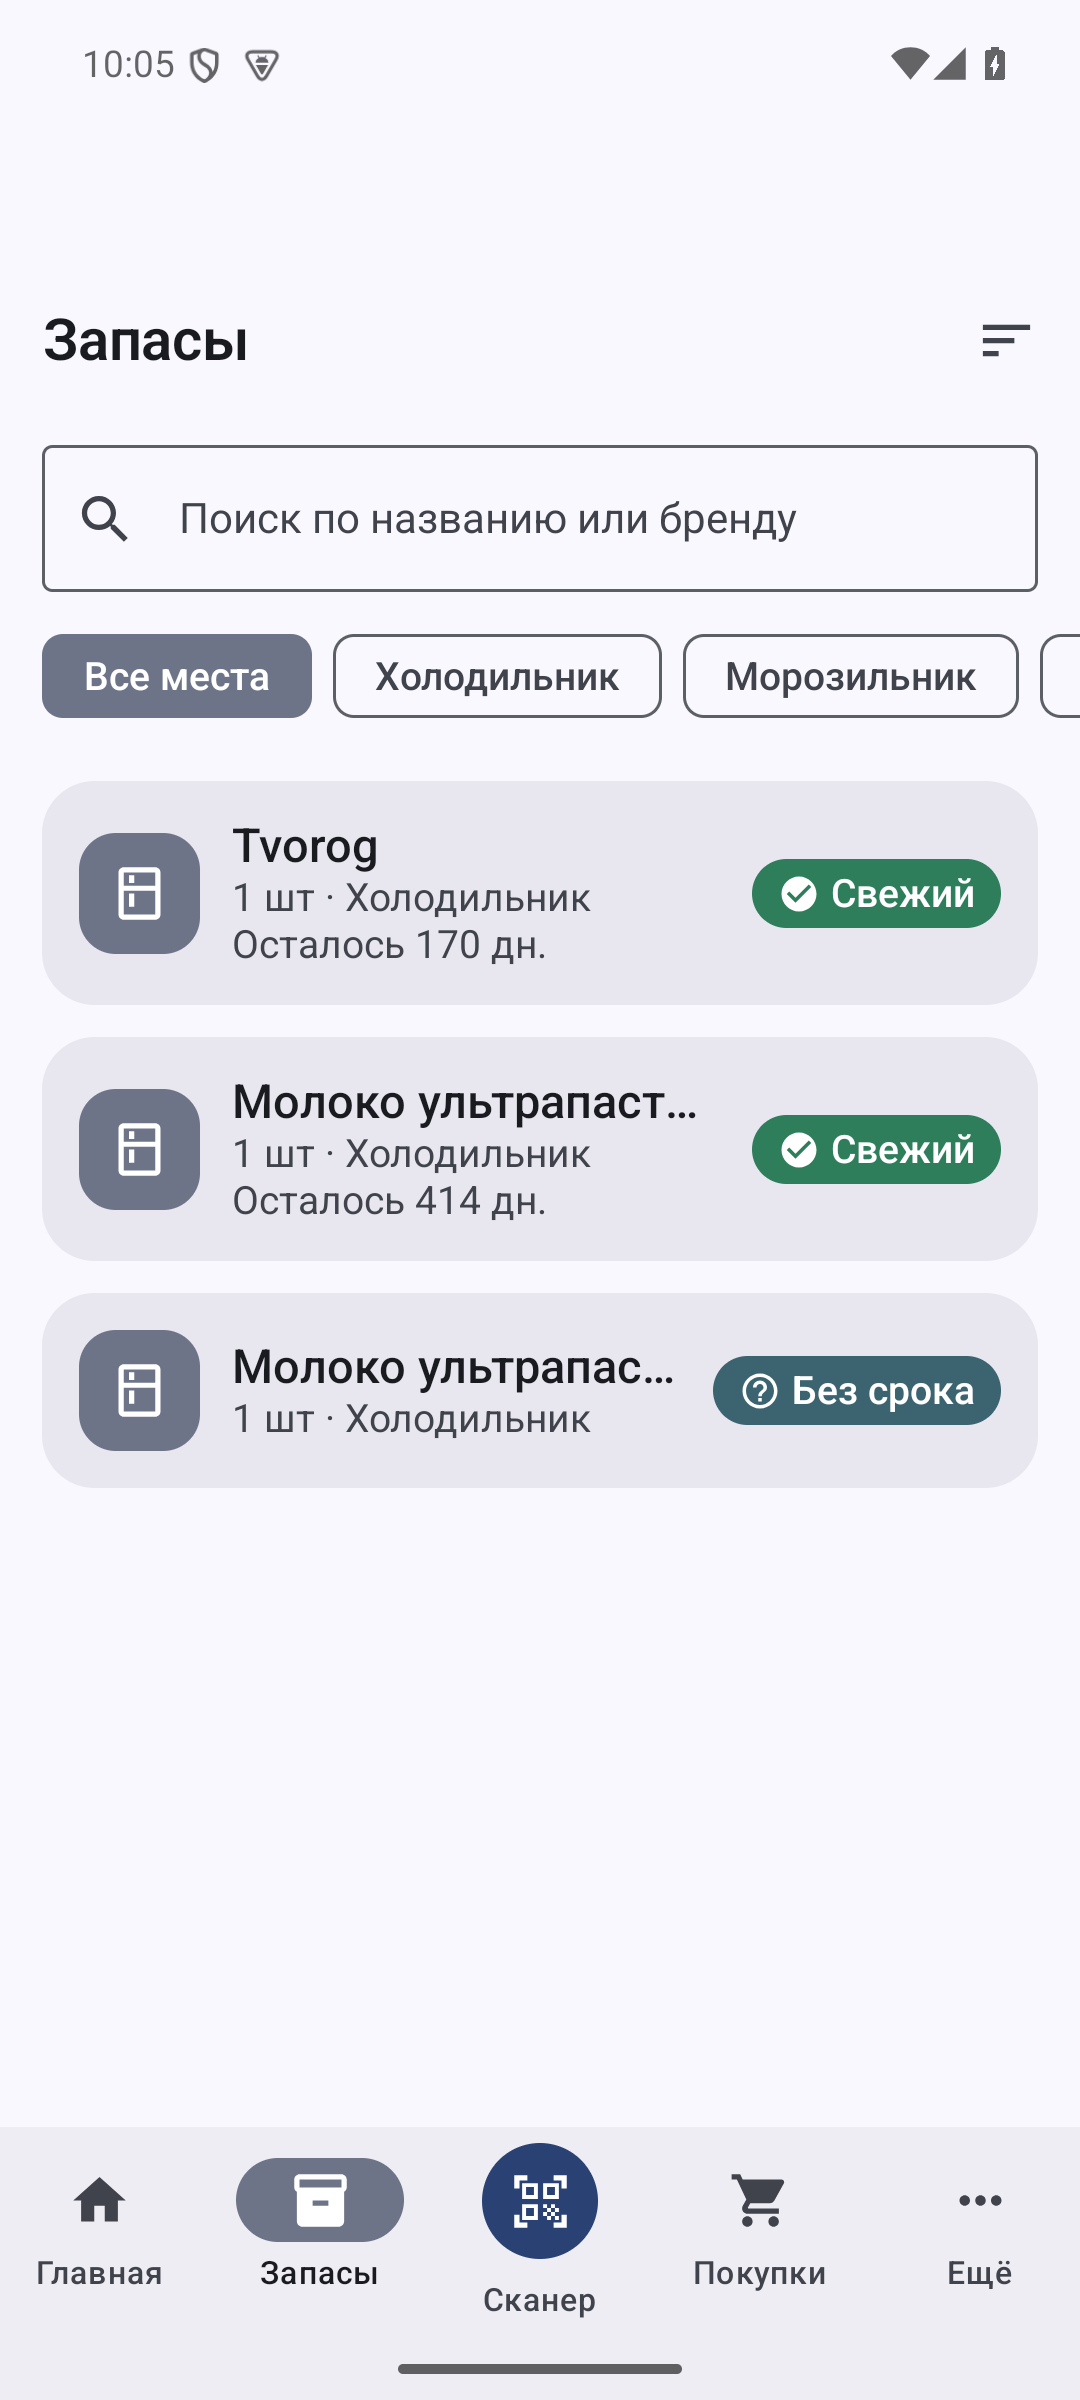
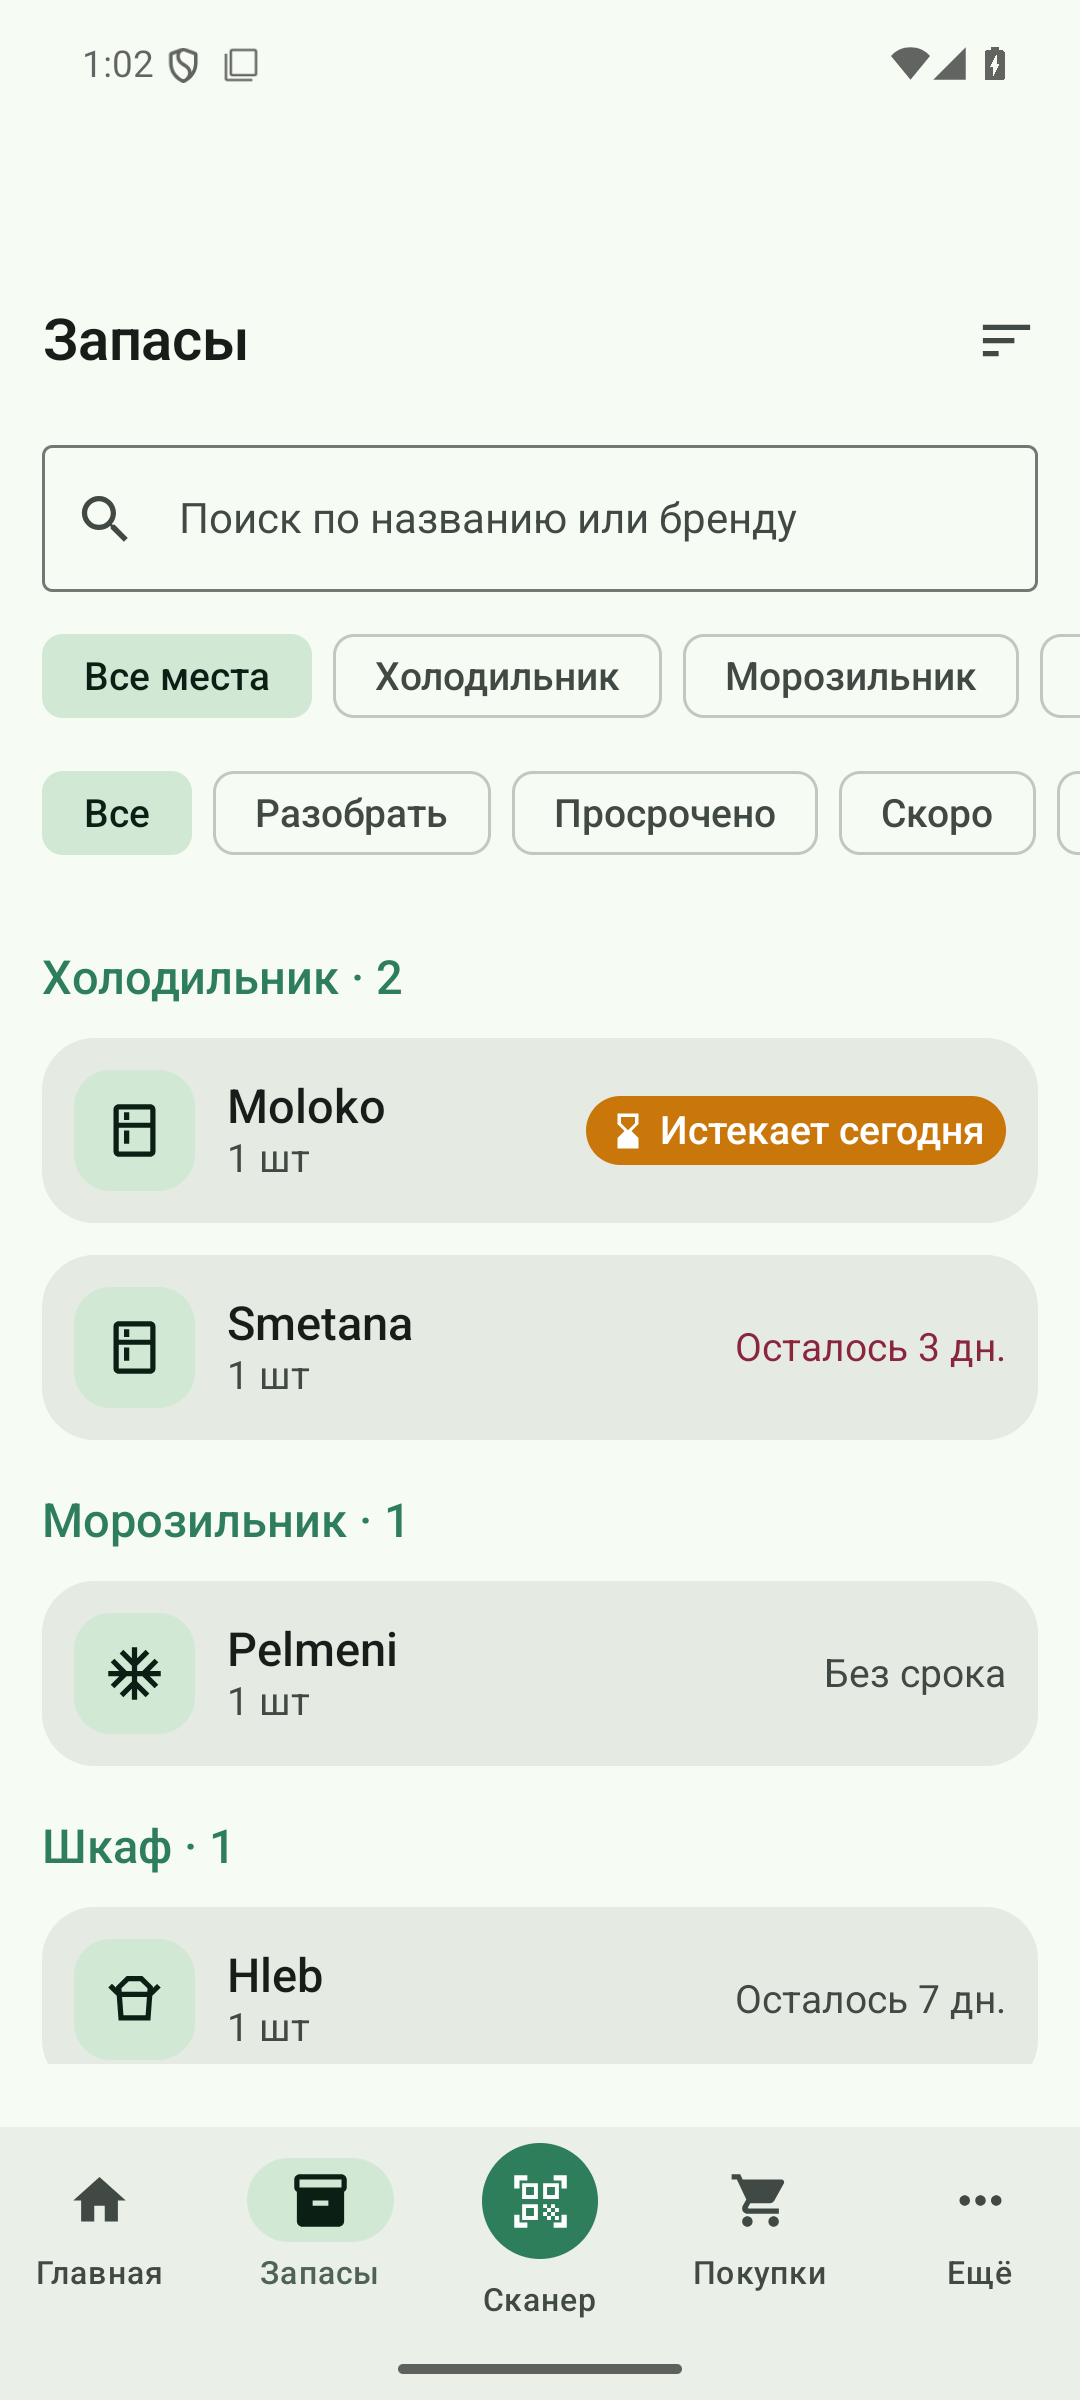
Release 1.7.0
Version 9. Same key as 1.5.0 onwards, so it installs over 1.6.0 directly.

Screenshots retaken: the old ones were from July, before the status filters and the
expired tile, and were captured with wallpaper colours on — the app looked like a
grey-blue Material sample rather than its own green.

Changed region(s): [[0.0306, 0.25, 0.9778, 0.9688], [0.0917, 0.0, 0.2444, 0.0312], [0.9778, 0.3125, 1.0, 0.3438]]

diff --git a/CHANGELOG.md b/CHANGELOG.md
@@ -5,6 +5,44 @@
 
 ## [Unreleased]
 
+## [1.7.0] — 2026-08-11
+
+Приложение перестало кричать о том, с чем всё в порядке.
+
+### Тише по умолчанию, громко — когда есть что делать
+- **Залитая плашка осталась только у срочного.** Раньше «Свежий» — самое частое и
+  самое безобидное состояние — получал на каждой строке ту же яркую пилюлю, что и
+  испорченное. Четыре нормальных продукта кричали, а один пропадающий ничем не
+  выделялся. Теперь три веса: заливка у «Истекает сегодня» и «Просрочен», цветная
+  подпись у «Скоро», обычный серый текст у остального.
+- **Строка больше не повторяется.** «Осталось 169 дн.» и бейдж «Свежий» говорили
+  одно и то же; осталась одна подпись — та, что несёт число.
+- **Главная начинается с дела.** Вместо полосы плиток — строка «Разобрать сегодня:
+  N» с переходом в отфильтрованный список. Когда разбирать нечего, строки нет
+  вовсе: раньше четверть экрана занимало сообщение «0 скоро истекут».
+  Счётчик продуктов переехал в подзаголовок к дате.
+- **Ноль выброшенного перестал быть красным.** В аналитике «Выброшено» и «Просрочено»
+  окрашиваются, только когда они не нули; остальные счётчики нейтральны. Раньше
+  цвет брался из свободной роли Material, а не из смысла числа.
+
+### Новое
+- **Разбор пачками.** Долгое нажатие → «Выбрать несколько», отметить строки,
+  «Закончилось» или «Выбросить» разом. Отмена возвращает **все** записанные партии,
+  а не последнюю.
+- **Запасы сгруппированы по местам**: «Холодильник · 6», «Морозильник · 3» —
+  в том порядке, в каком места расставлены в настройках. При выборе одного места
+  заголовки убираются.
+- **Фильтр «Разобрать»** — просроченное вместе с истекающим сегодня, ровно то, что
+  считает строка на главной.
+- **Список покупок можно отправить** обычным текстом: купленное в него не попадает.
+
+### Под капотом
+- Одна плитка-счётчик вместо трёх реализаций, около сорока «сырых» размеров
+  заменены токенами `Dimens`, подписи быстрых действий больше не переносятся.
+- Скриншоты в README пересняты: прежние были сняты в июле, до фильтров и плитки
+  «Просрочено», да ещё и с включёнными цветами обоев — приложение на них выглядело
+  чужим серо-синим вместо собственного зелёного.
+
 ## [1.6.0] — 2026-08-09
 
 Удобство ежедневного пользования — и одна ошибка, из-за которой приложение

diff --git a/TODO.md b/TODO.md
@@ -52,6 +52,17 @@
 - [x] Кнопки −/+ у количества; единицы измерения и правка позиций в списке покупок.
 - [x] Вибрация при удачном скане, снекбары озвучиваются TalkBack.
 
+## Сделано после v1.6.0
+
+- [x] Редизайн внимания: заливка статуса только у срочного, три веса вместо одного,
+      строка списка без дублирования, главная вокруг «разобрать сегодня».
+- [x] Один `StatTile` вместо трёх реализаций; цвет плитки — по смыслу, а не по
+      свободной роли Material («0 выброшено» больше не красный).
+- [x] ~40 сырых `dp` заменены токенами `Dimens`.
+- [x] Разбор пачками с возвратом всех партий, группировка запасов по местам,
+      отправка списка покупок текстом, фильтр «Разобрать».
+- [x] Скриншоты в README пересняты на собственной палитре.
+
 ## Технический долг
 
 - [x] `SyncManager` покрыт `SyncManagerTest` (Robolectric, обычный каталог вместо SAF

diff --git a/README.md b/README.md
@@ -11,9 +11,13 @@
 
 **[⬇ Скачать APK (последний релиз)](https://github.com/Lucky2356/EatBefore/releases/latest)**
 
-| Главная | Запасы | Сканер | Аналитика | Тёмная тема |
-|---|---|---|---|---|
-| ![Главная](docs/screenshots/home.png) | ![Запасы](docs/screenshots/inventory.png) | ![Сканер](docs/screenshots/scanner-found.png) | ![Аналитика](docs/screenshots/analytics.png) | ![Тёмная тема](docs/screenshots/home-dark.png) |
+| Главная | Запасы | Карточка продукта |
+|---|---|---|
+| ![Главная](docs/screenshots/home.png) | ![Запасы](docs/screenshots/inventory.png) | ![Карточка продукта](docs/screenshots/product.png) |
+
+| Разбор пачками | Аналитика | Тёмная тема |
+|---|---|---|
+| ![Разбор пачками](docs/screenshots/selection.png) | ![Аналитика](docs/screenshots/analytics.png) | ![Тёмная тема](docs/screenshots/home-dark.png) |
 
 > **Статус:** весь обязательный объём **P0 реализован и проверен на устройстве** —
 > включая сканер (EAN/QR/DataMatrix и коды «Честного знака»), OCR срока, уведомления,
